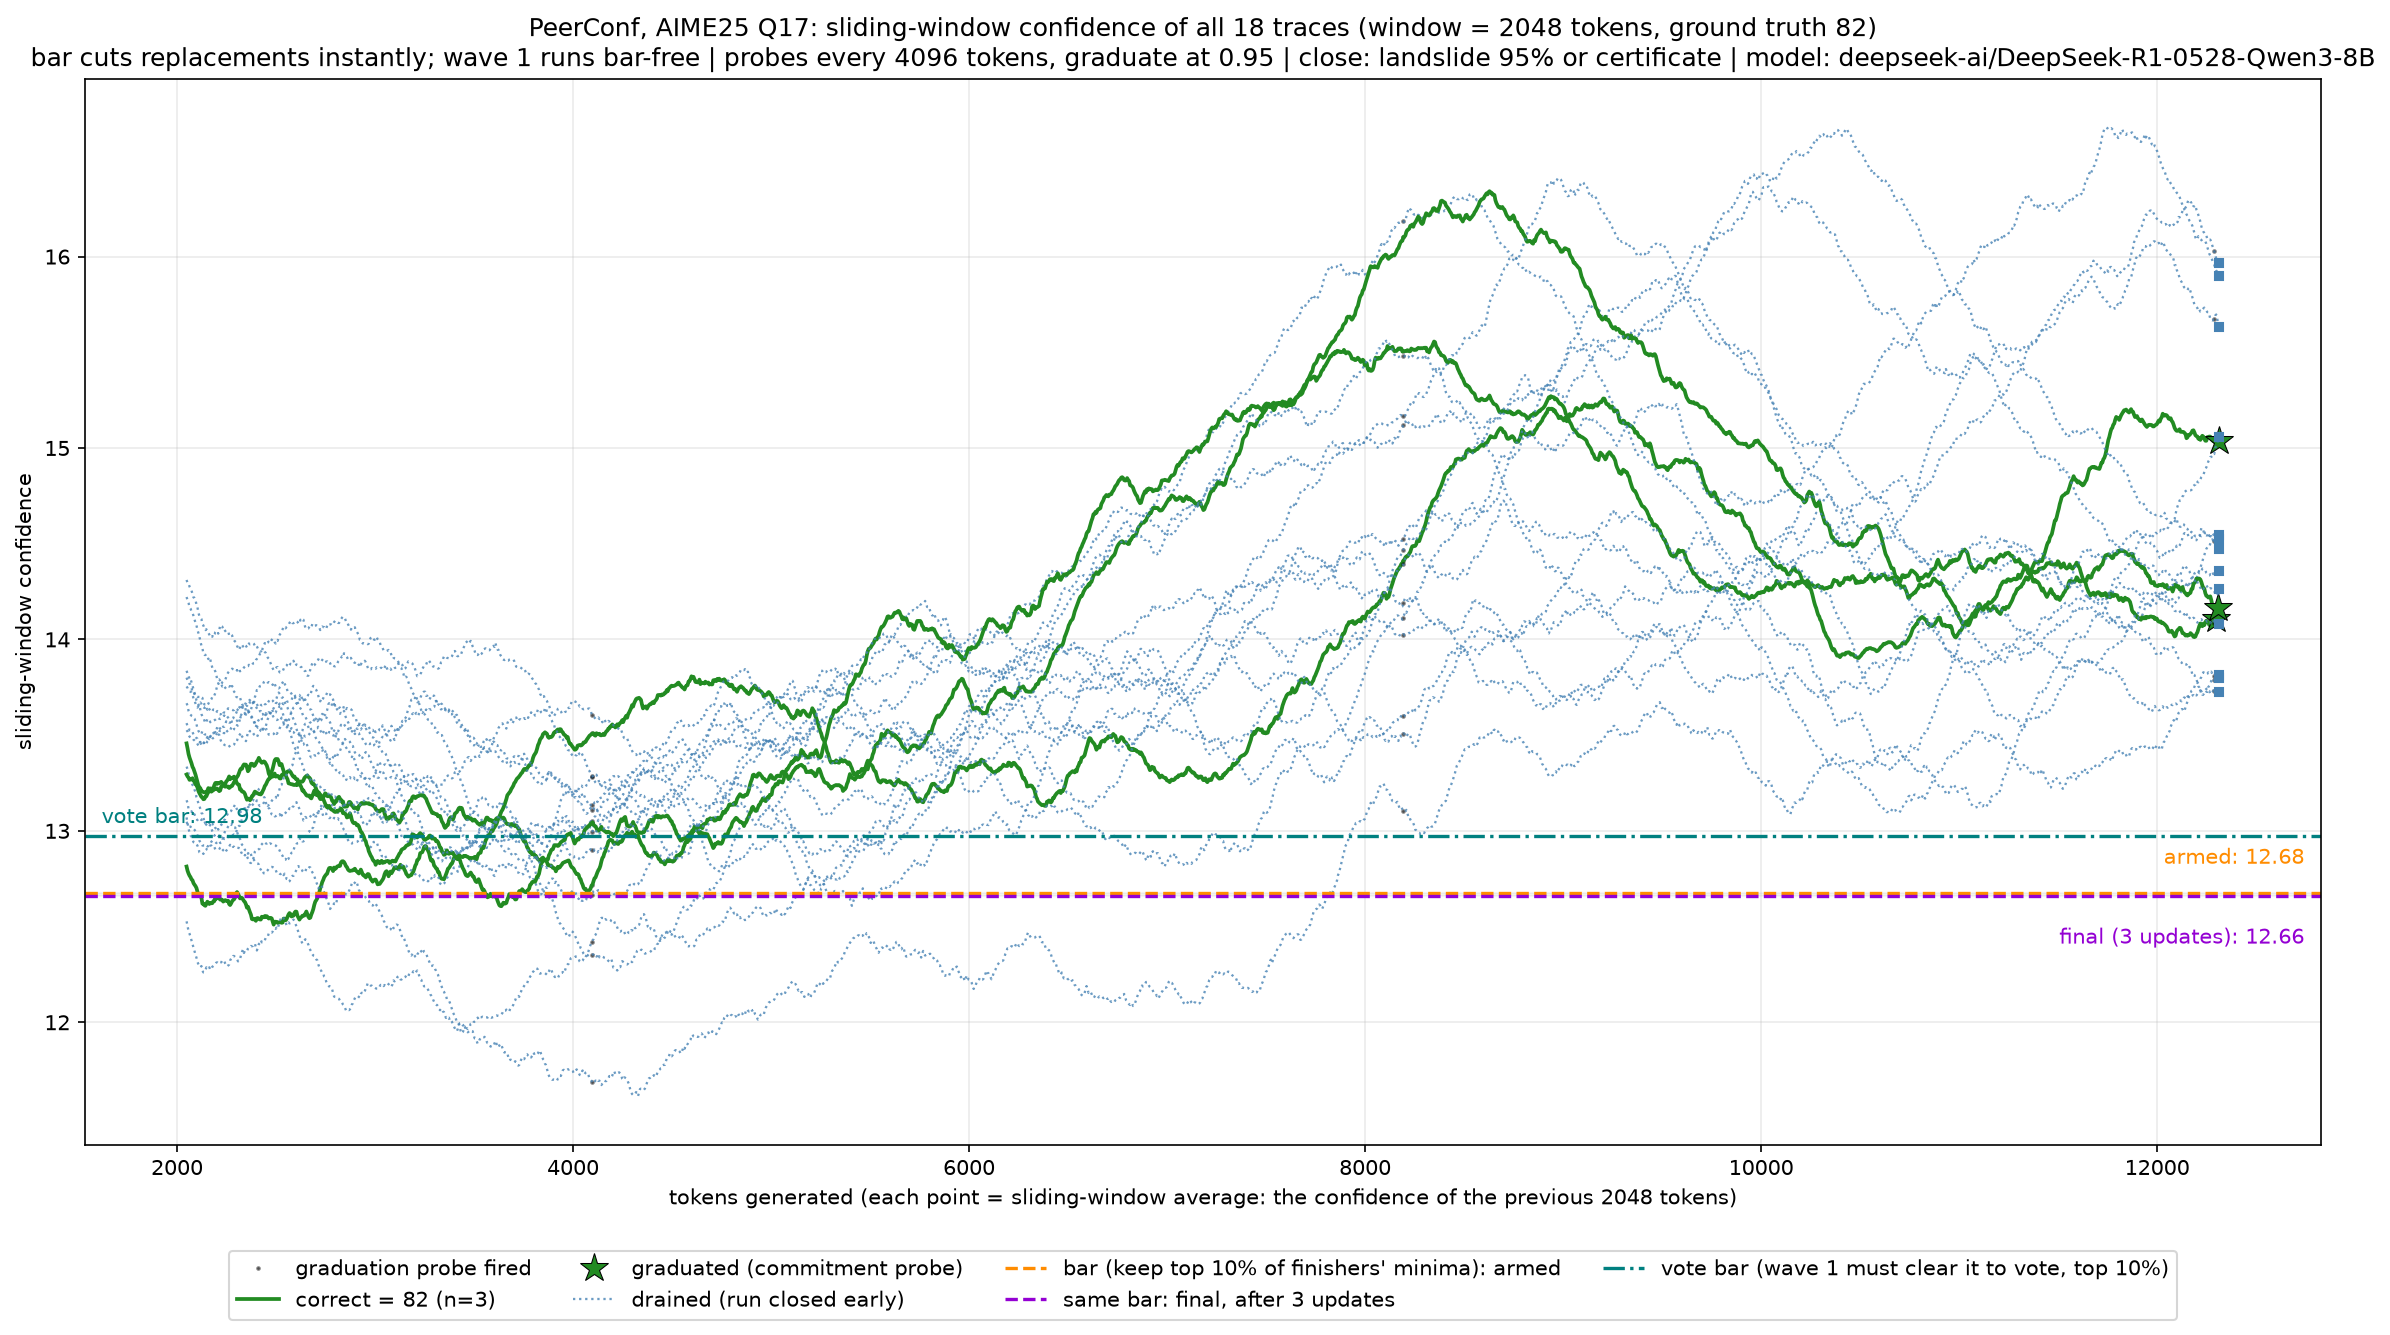
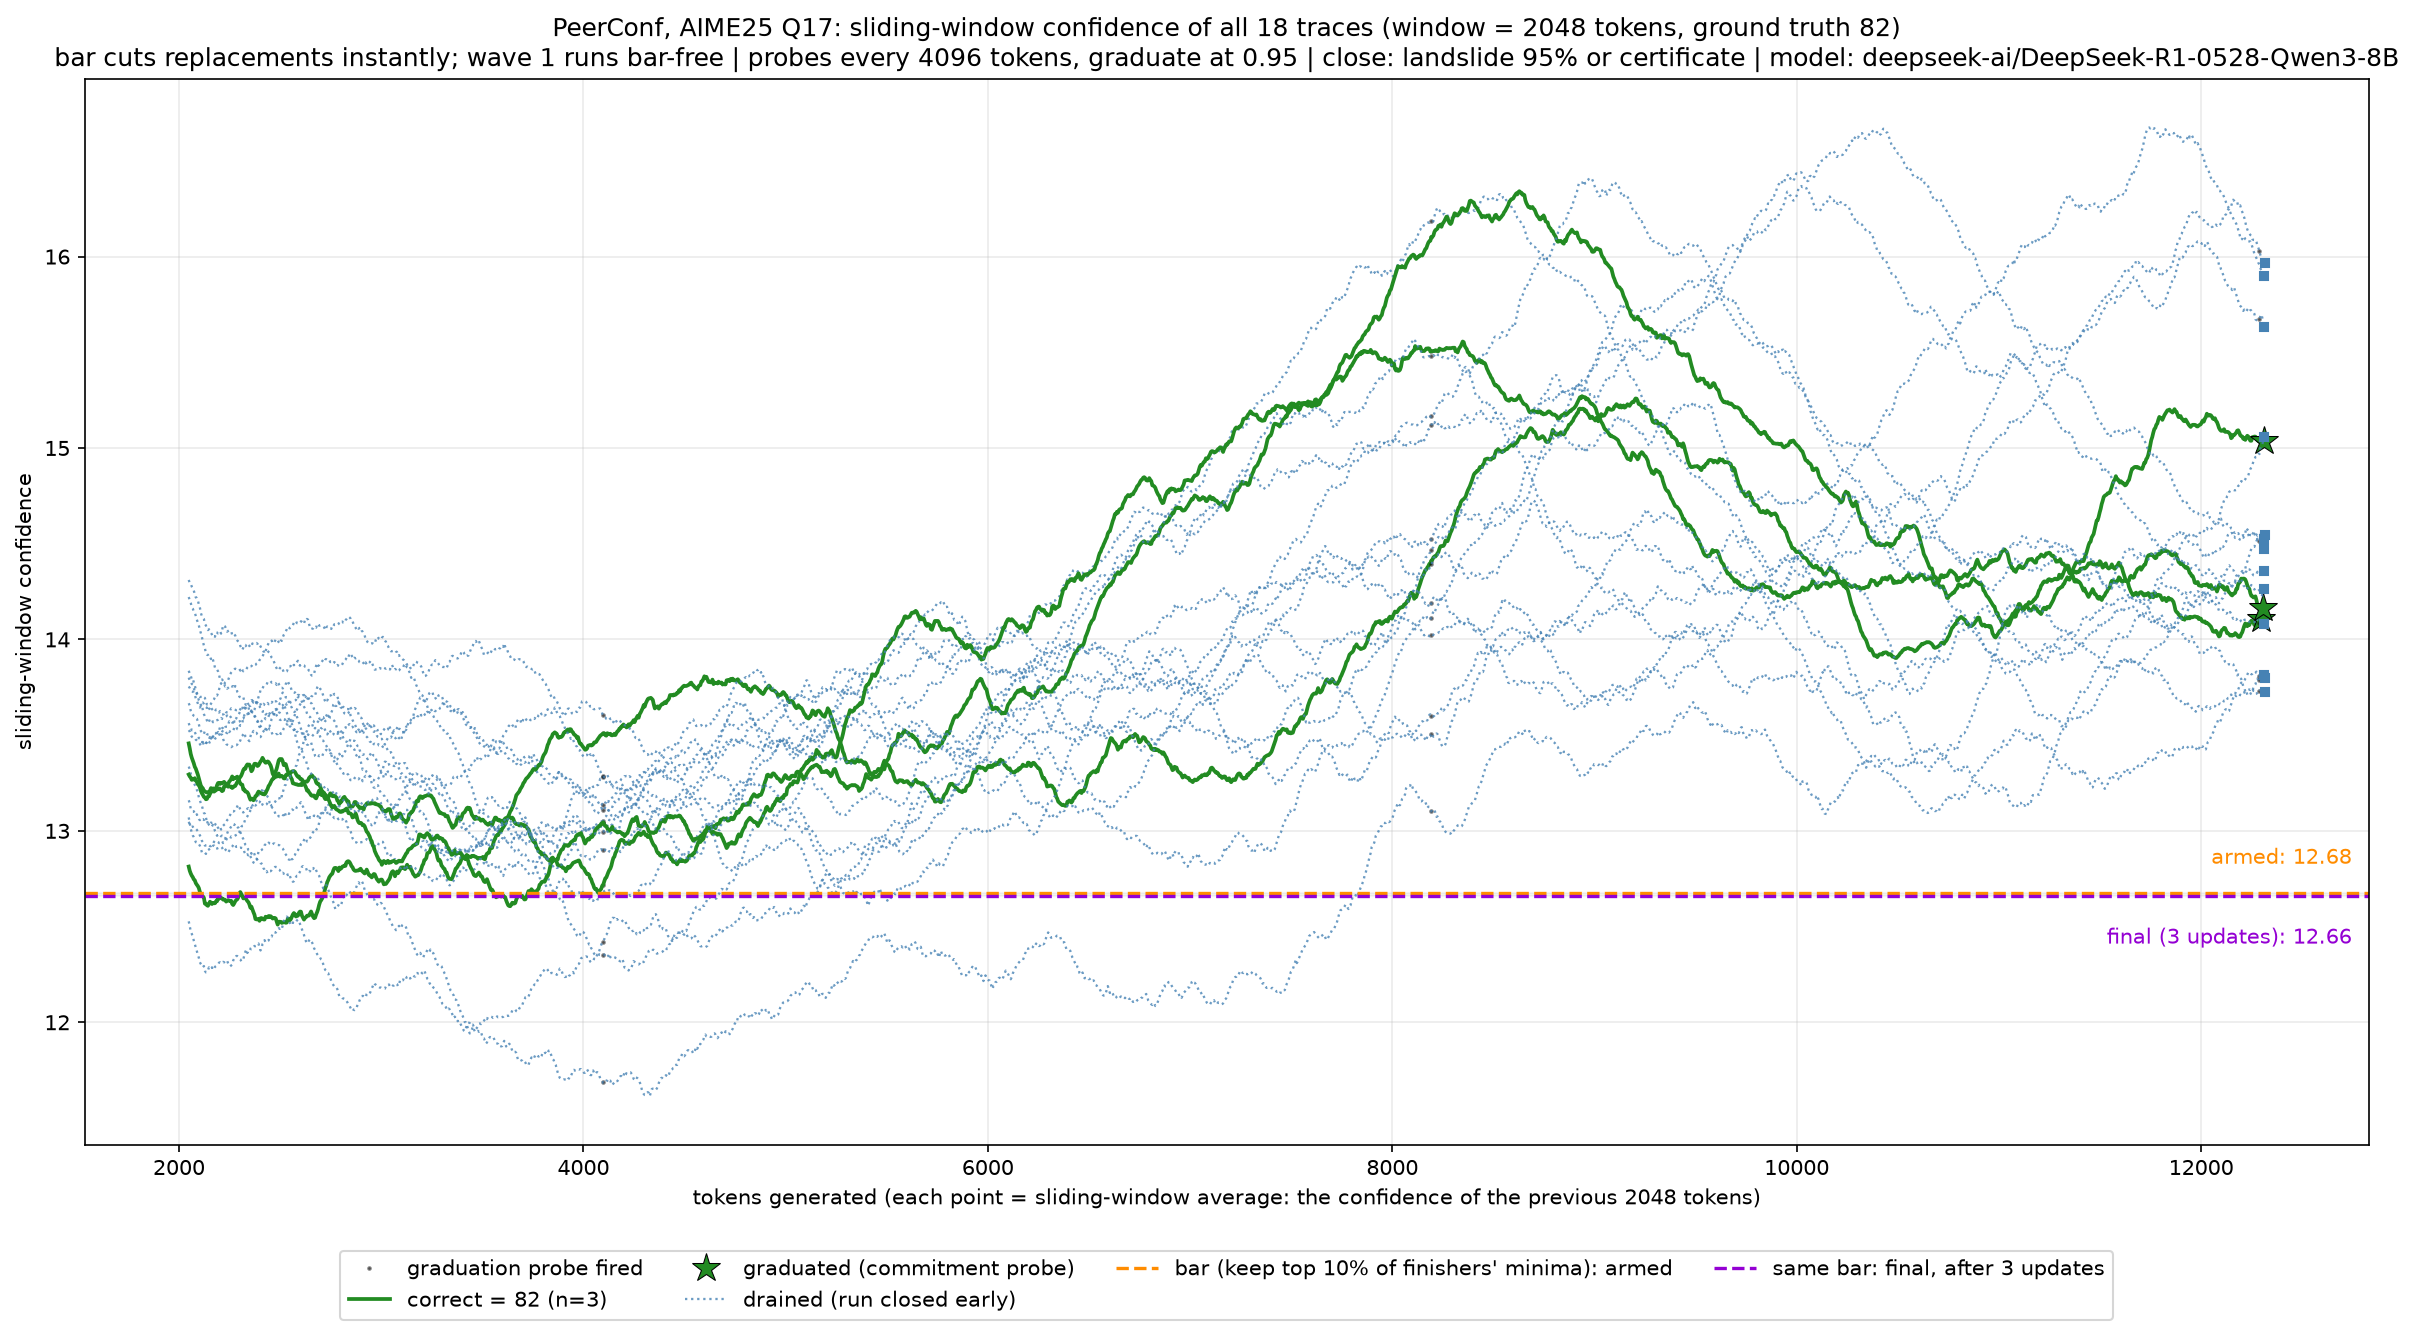
update results and figures

diff --git a/peerconf/cell3_confidence_timeline.py b/peerconf/cell3_confidence_timeline.py
@@ -144,15 +144,10 @@ def draw_timeline(fname):
                     xycoords=("axes fraction", "data"), xytext=(-8, dy_last),
                     textcoords="offset points", ha="right", color=FINAL)
 
-    # the vote bar: DeepConf's top-eta% filter. Once wave 1 has departed, only a
-    # wave-1 path whose lifetime low clears this line may vote. Replacements vote
-    # regardless. Older pkls predate the field, so derive it from wave 1's minima.
-    seats = cfg.get("SEATS")
+    # the vote bar, on the questions that reached it: once wave 1 has departed,
+    # a wave-1 path below this line no longer votes. Absent where the run closed
+    # before wave 1 was done, so nothing is drawn there.
     vbar = cfg.get("vote_bar")
-    if vbar is None and seats and keep:
-        w1 = [min(t["confs"]) for t in r["traces"] if t["id"] < seats and t["confs"]]
-        if w1:
-            vbar = float(np.percentile(w1, 100 - keep))
     if vbar is not None:
         ax.axhline(vbar, color="teal", ls="-.", lw=1.6,
                    label=f"vote bar (wave 1 must clear it to vote, top {keep}%)")

diff --git a/results/aime25/README.md b/results/aime25/README.md
@@ -6,54 +6,14 @@ peerconf-low on all 30 questions. deepconf coming soon.
 
 | Model | Dataset | Token | Time | Acc | Mean token/Q |
 |---|---|---|---|---|---|
-| DeepSeek-8B | AIME25 (Q0-29) | 11.66M | 145 min | 86.7% | 389K |
-| | correct subset (26 Q) | 6.85M | 72 min | 100% | 263K |
-| | with the voting filter | 10.39M | - | 86.7% | 346K |
+| DeepSeek-8B | AIME25 (Q0-29) | 10.39M | 125 min | 86.7% | 346K |
+| | correct subset (26 Q) | 6.84M | 72 min | 100% | 263K |
 
 Budget 32 traces/question, 16 seats, 64k-token cap, one run per question.
 Time = generation wall-clock on 2x H200 SXM, excludes server startup.
 
-The four wrong answers (Q13, Q14, Q27, Q29) cost 4.82M tokens, 41% of the run,
-so a correct answer averages 263K tokens and a wrong one averages 1.20M.
-
-## The voting filter
-
-DeepConf does not vote with every finisher. Once its 16 warmup traces have
-departed it freezes a bar at the top 10% of their minima, and a warmup trace
-below that bar does not get to vote. Traces launched afterwards vote unfiltered.
-Our run applied the same top 10% only to cutting, never to voting, so every
-finisher had a ballot. This is not a new rule, it is the baseline's own voting
-scheme that we had left out.
-
-Adding it, computed from the saved traces:
-
-| | as run | with the filter |
-|---|---|---|
-| accuracy | 26/30 | 26/30 |
-| tokens | 11,661,831 | 10,385,293 |
-
-10.9% fewer tokens for the same answers. Three questions move:
-
-| Q | as run | with the filter | |
-|---|---|---|---|
-| 13 | 1,791,527 | 1,032,306 | -42% |
-| 27 | 1,538,774 | 1,031,124 | -33% |
-| 12 | 920,401 | 911,146 | -1% |
-
-The other 27 never set a vote bar at all, because they close on three unanimous
-finishers before wave 1 has finished departing. Only Q27 changes its answer, from
-0 to 208, and both are wrong.
-
-Spend at the close is computed rather than estimated. Traces decode at the same
-rate under continuous batching, so elapsed time can be measured in tokens: a
-wave-1 path departs at its own token count, and a replacement departs at the time
-its predecessor left plus its own. The departure order this produces matches
-run.log on 26 of 28 questions.
-
-One property worth stating. At budget 32 the filter keeps one or two traces out
-of sixteen, so these three questions close on a single voter. DeepConf reports
-eta=10 at K=512, where the same rule retains about 51 traces. The mechanism is
-identical; the sample it acts on is not.
+The four wrong answers (Q13, Q14, Q27, Q29) cost 3.55M tokens, 34% of the run,
+so a correct answer averages 263K tokens and a wrong one averages 887K.
 
 ## Confidence timelines
 
